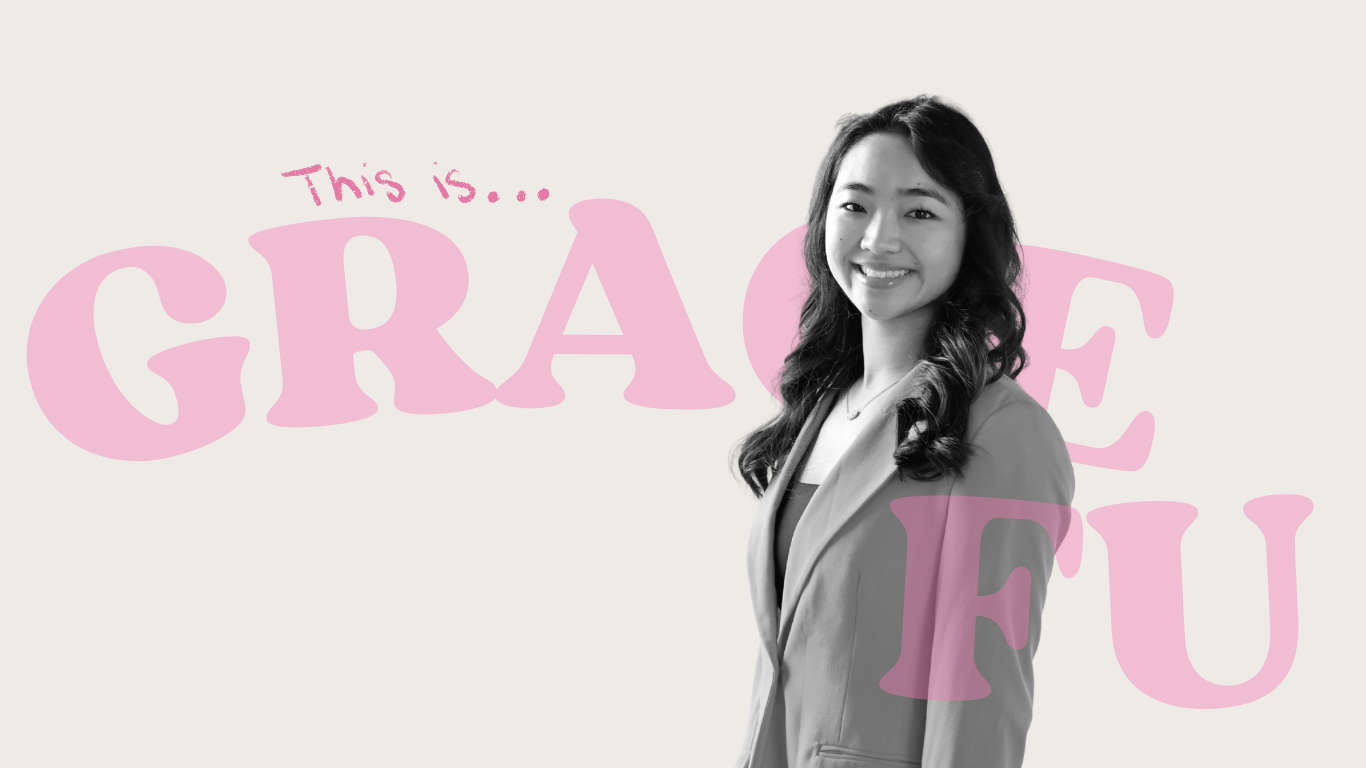
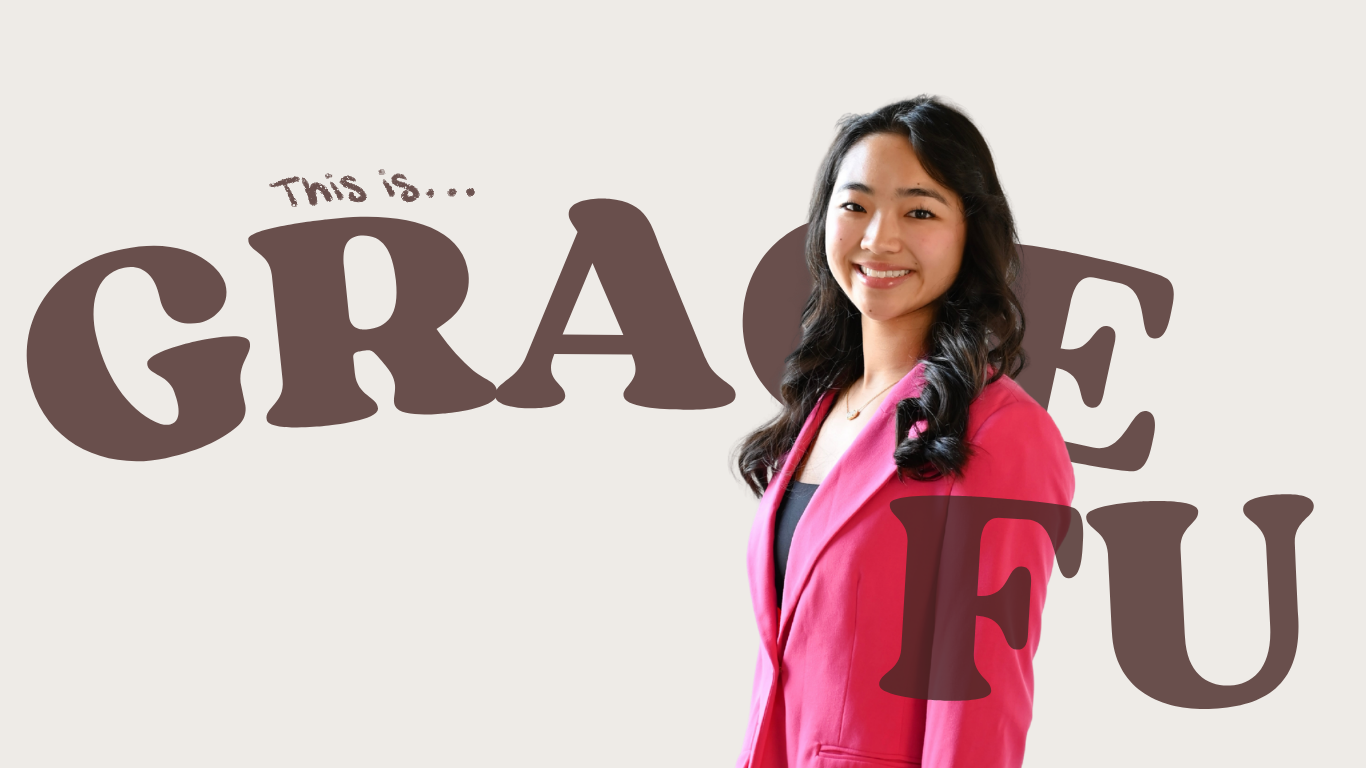
Polish hero, about section, contacts, and copy updates
- Hero: reduced top padding, added scroll hint with gentle bounce
- About: trimmed copy, new motto "I build where it matters most."
- About: closing quote changed to "Built with heart."
- About: contacts redesigned as dark sticker blocks with pink drop shadow
- About: big quote and closing quote in DM Sans bold uppercase
- About: SVG path starts flush left, stops short of right edge
- About: text fills more space on larger screens
- Ticker bar and subtitle color updated to #6B504F
- Updated hero banner image

Changed region(s): [[0.0, 0.1562, 0.9839, 1.0]]

diff --git a/styles.css b/styles.css
@@ -226,7 +226,8 @@ body::after {
     position: relative;
     width: 100%;
     overflow: hidden;
-    background-color: var(--bg-primary);
+    background-color: #EEEBE7;
+    padding-top: clamp(0.5rem, 2vh, 1.5rem);
 }
 
 .hero-banner {
@@ -282,6 +283,23 @@ body::after {
     100% {
         transform: translateX(-33.333%);
     }
+}
+
+/* Scroll hint */
+.scroll-hint {
+    font-family: var(--font-body);
+    font-size: clamp(0.7rem, 1.2vw, 1rem);
+    font-weight: 500;
+    letter-spacing: 0.15em;
+    color: #6B504F;
+    text-align: right;
+    padding: 0 clamp(1.5rem, 4vw, 3rem) 0.5rem;
+    animation: gentle-bounce 2.5s ease-in-out infinite;
+}
+
+@keyframes gentle-bounce {
+    0%, 100% { transform: translateY(0); }
+    50% { transform: translateY(-4px); }
 }
 
 /* Hero banner horizontal parallax */
@@ -353,10 +371,12 @@ section {
 .about-hero-quote {
     grid-column: 1 / -1;
     grid-row: 1;
-    font-family: var(--font-display);
-    font-size: clamp(2rem, 4.5vw, 5rem);
-    font-weight: 900;
-    font-style: italic;
+    font-family: var(--font-body);
+    font-size: clamp(2.5rem, 5vw, 5.5rem);
+    font-weight: 700;
+    font-style: normal;
+    text-transform: uppercase;
+    letter-spacing: -0.02em;
     color: var(--text-primary);
     line-height: 1.1;
     text-align: center;
@@ -393,19 +413,25 @@ section {
 }
 
 .about-quote {
-    font-family: var(--font-display);
-    font-style: italic;
+    font-family: var(--font-body);
+    font-style: normal;
     font-weight: 700;
-    font-size: clamp(1.25rem, 2vw, 1.75rem);
+    font-size: clamp(1.5rem, 3vw, 3rem);
+    text-transform: uppercase;
+    letter-spacing: -0.02em;
     color: var(--text-primary);
     margin-top: 1rem;
+    max-width: 20ch;
+    margin-left: auto;
 }
 
 /* SVG Path */
 .about-path-svg {
     grid-column: 1 / -1;
     grid-row: 3;
-    width: 100%;
+    width: 100vw;
+    margin-left: calc(-50vw + 50%);
+    padding-right: 8vw;
     height: 100px;
 }
 
@@ -468,36 +494,38 @@ section {
     color: var(--bg-dark);
 }
 
-/* Contact stickers in About */
+/* Contact in About */
 .about-contact {
-    grid-column: 1 / -1;
+    grid-column: 1;
     grid-row: 5;
     display: flex;
-    gap: 1rem;
-    flex-wrap: wrap;
-    justify-content: center;
-    padding-top: 1.5rem;
+    flex-direction: column;
+    gap: 0.75rem;
+    padding-top: 2rem;
+    justify-self: start;
 }
 
 .about-contact-link {
     font-family: var(--font-body);
-    font-size: clamp(0.75rem, 1.1vw, 0.9rem);
-    font-weight: 500;
-    color: var(--text-primary);
+    font-size: clamp(1rem, 1.5vw, 1.2rem);
+    font-weight: 600;
+    color: var(--white);
     text-decoration: none;
-    background-color: var(--accent-pink);
-    padding: 0.5rem 1rem;
-    box-shadow: 2px 3px 0px rgba(68, 47, 42, 0.15);
-    transition: transform var(--transition-fast), box-shadow var(--transition-fast);
+    padding: 0.75rem 1.5rem;
+    background-color: var(--bg-dark);
+    display: inline-block;
+    width: fit-content;
+    box-shadow: 4px 4px 0px var(--accent-pink);
+    transition: all var(--transition-fast);
 }
 
 .about-contact-link:nth-child(1) { transform: rotate(-1.5deg); }
-.about-contact-link:nth-child(2) { transform: rotate(1deg); }
+.about-contact-link:nth-child(2) { transform: rotate(1deg); margin-left: 1rem; }
 .about-contact-link:nth-child(3) { transform: rotate(-0.5deg); }
 
 .about-contact-link:hover {
-    transform: rotate(0deg) scale(1.05);
-    box-shadow: 3px 5px 0px rgba(68, 47, 42, 0.2);
+    transform: rotate(0deg) translate(-2px, -2px);
+    box-shadow: 6px 6px 0px var(--accent-pink);
 }
 
 /* Fade-in animation */
@@ -537,7 +565,10 @@ section {
     .about-photo-left { grid-column: 1; grid-row: 3; }
     .about-photo-right { grid-column: 1; grid-row: 4; }
     .about-text-right { grid-row: 5; }
-    .about-contact { grid-row: 6; }
+    .about-contact {
+        grid-row: 6;
+        justify-self: center;
+    }
 
     .about-path-svg {
         display: none;

diff --git a/index.html b/index.html
@@ -47,6 +47,7 @@
 
     <!-- Hero Section -->
     <header class="hero" id="hero">
+        <p class="scroll-hint">scroll ↓</p>
         <img src="hero-banner.png" alt="This is Grace Fu" class="hero-banner">
         <p class="hero-subtitle">B.S. Computer Science & Business · WashU</p>
     </header>
@@ -66,7 +67,7 @@
 
             <div class="about-story">
                 <!-- Big opening pull-quote -->
-                <p class="about-hero-quote about-fade">I don't just build things. I solve the right problems.</p>
+                <p class="about-hero-quote about-fade">I build where it matters most.</p>
 
                 <!-- Origin text -->
                 <div class="about-text-left about-fade">
@@ -98,7 +99,7 @@
                 <!-- Bottom-right text block -->
                 <div class="about-text-right about-fade">
                     <p>Now I build ML pipelines for Child Protective Services, apps for real communities, and tools that make people's lives easier.</p>
-                    <p class="about-quote">Technology is most powerful when it's deeply human.</p>
+                    <p class="about-quote">Built with heart.</p>
                 </div>
 
                 <!-- Contact stickers -->
